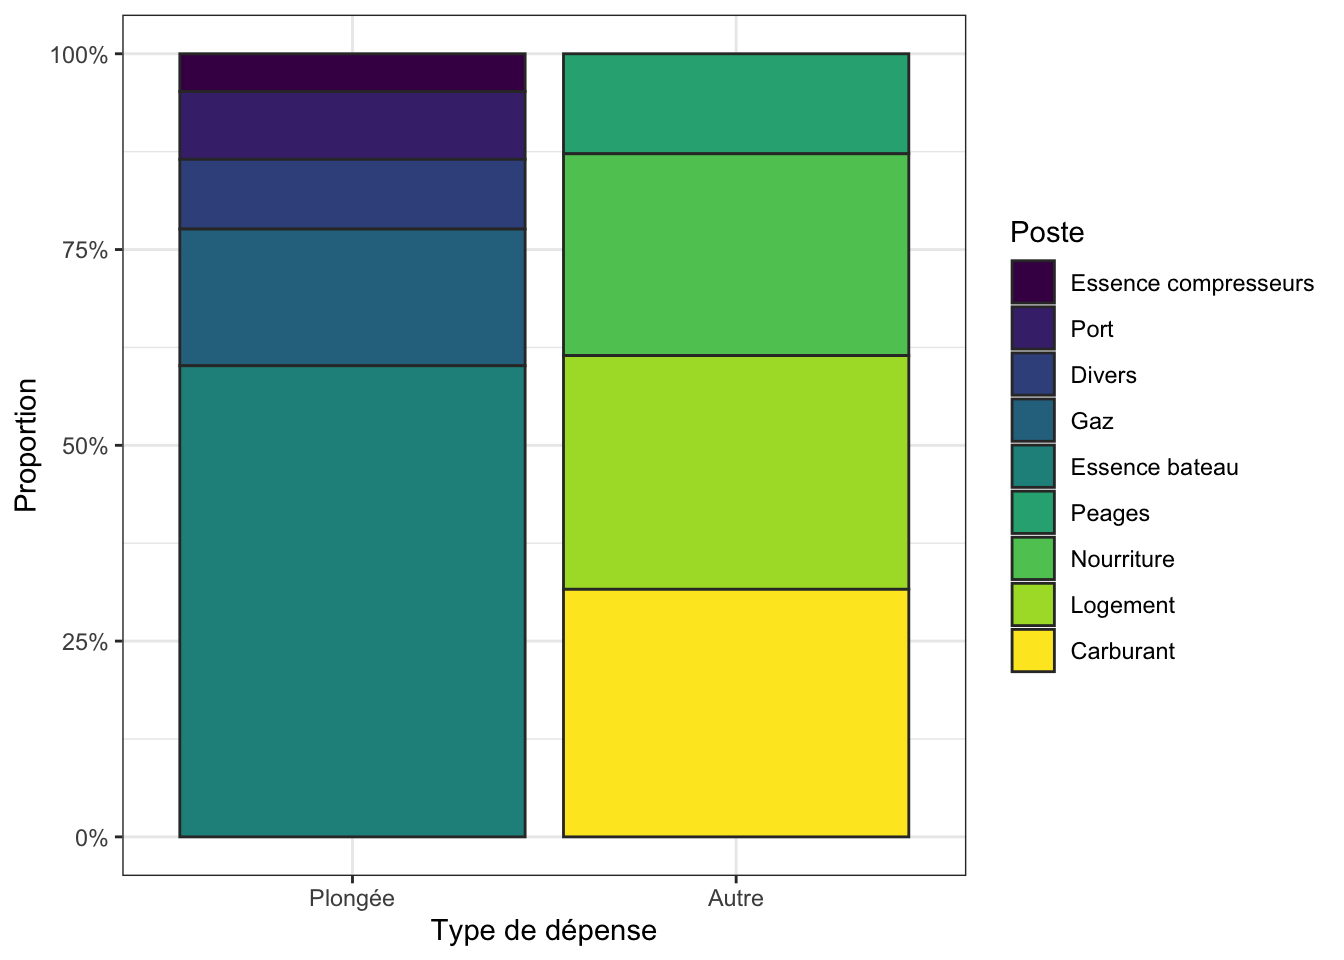
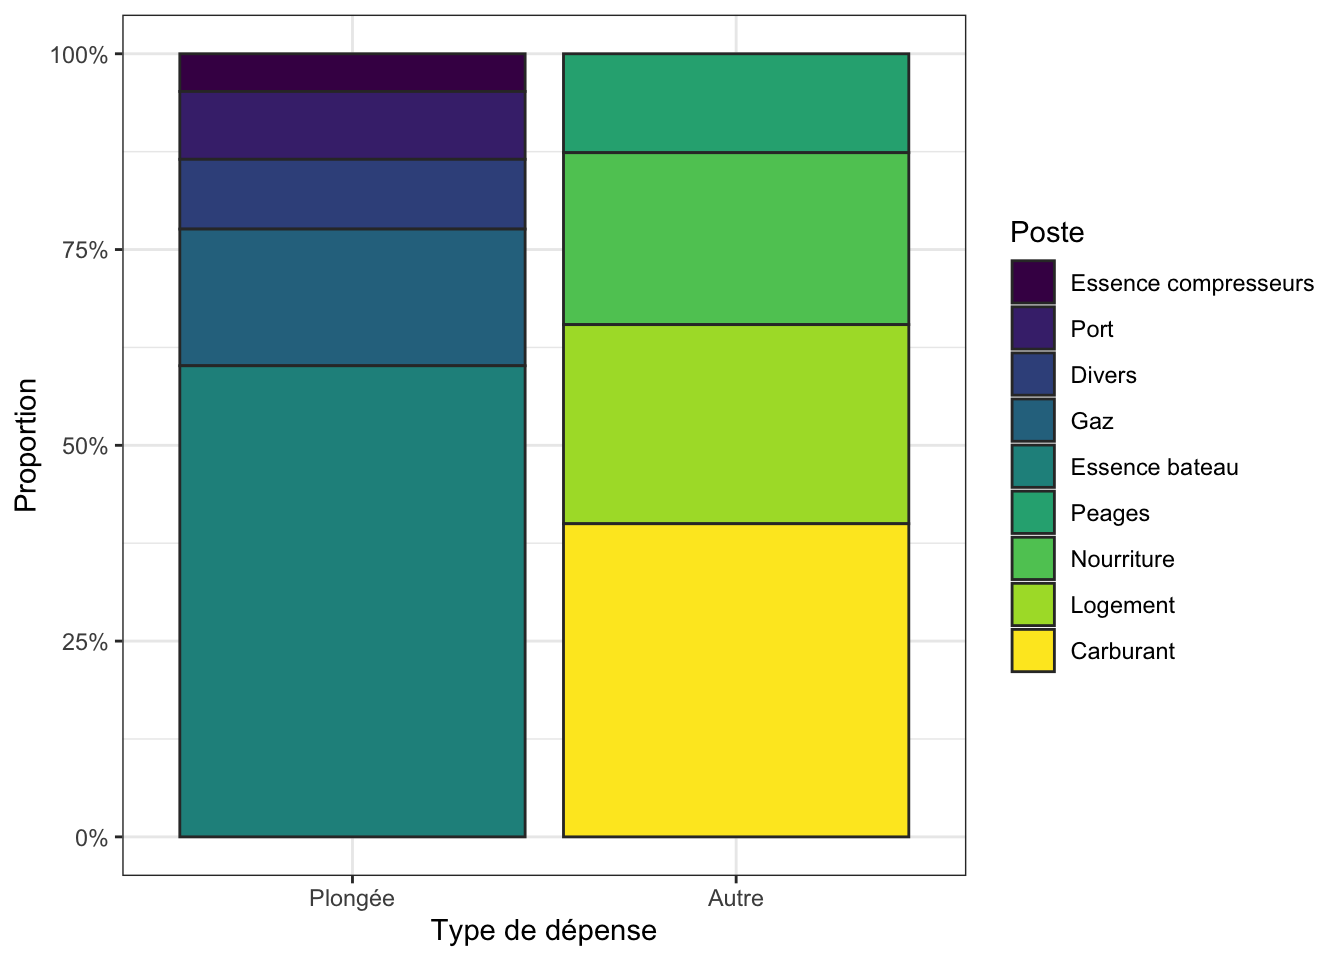
Final update to Cavalaire 2024

Changed region(s): [[0.4062, 0.5312, 0.6875, 0.625], [0.4062, 0.3125, 0.6875, 0.375]]

diff --git a/docs/Cavalaire2024.html b/docs/Cavalaire2024.html
@@ -286,7 +286,7 @@ ul.task-list li input[type="checkbox"] {
     <div>
     <div class="quarto-title-meta-heading">Dernière Mise à jour</div>
     <div class="quarto-title-meta-contents">
-      <p class="date">mardi 23 avril 2024</p>
+      <p class="date">vendredi 26 avril 2024</p>
     </div>
   </div>
   
@@ -721,11 +721,11 @@ Table&nbsp;4: Dépenses hors plongées engagées par les participants à la sort
 <td style="text-align: right;">Carole</td>
 <td style="text-align: right;">0€</td>
 <td style="text-align: right;">49.50€</td>
-<td style="text-align: right;">141.38€</td>
+<td style="text-align: right;">256.58€</td>
 <td style="text-align: right;">0.00€</td>
 <td style="text-align: right;">0€</td>
 <td style="text-align: right;">0€</td>
-<td style="text-align: right;">190.88€</td>
+<td style="text-align: right;">306.08€</td>
 </tr>
 <tr class="even">
 <td style="text-align: right;">Jérôme</td>
@@ -761,11 +761,11 @@ Table&nbsp;4: Dépenses hors plongées engagées par les participants à la sort
 <td style="text-align: right;">Thomas</td>
 <td style="text-align: right;">0€</td>
 <td style="text-align: right;">0.00€</td>
-<td style="text-align: right;">0.00€</td>
-<td style="text-align: right;">67.30€</td>
+<td style="text-align: right;">387.98€</td>
+<td style="text-align: right;">134.90€</td>
 <td style="text-align: right;">0€</td>
 <td style="text-align: right;">0€</td>
-<td style="text-align: right;">67.30€</td>
+<td style="text-align: right;">522.88€</td>
 </tr>
 <tr class="even">
 <td style="text-align: right;">Anthony</td>
@@ -791,11 +791,11 @@ Table&nbsp;4: Dépenses hors plongées engagées par les participants à la sort
 <td style="text-align: right; font-weight: bold;">Total</td>
 <td style="text-align: right; font-weight: bold;">980€</td>
 <td style="text-align: right; font-weight: bold;">846.17€</td>
-<td style="text-align: right; font-weight: bold;">1,038.02€</td>
-<td style="text-align: right; font-weight: bold;">419.30€</td>
+<td style="text-align: right; font-weight: bold;">1,541.20€</td>
+<td style="text-align: right; font-weight: bold;">486.90€</td>
 <td style="text-align: right; font-weight: bold;">0€</td>
 <td style="text-align: right; font-weight: bold;">0€</td>
-<td style="text-align: right; font-weight: bold;">3,283.49€</td>
+<td style="text-align: right; font-weight: bold;">3,854.27€</td>
 </tr>
 </tbody>
 </table>
@@ -890,8 +890,8 @@ Table&nbsp;6: Coûts unitaires par personne
 <tr class="odd">
 <td style="text-align: right;">12.89€</td>
 <td style="text-align: right;">3.71€</td>
-<td style="text-align: right;">86.50€</td>
-<td style="text-align: right;">34.94€</td>
+<td style="text-align: right;">128.43€</td>
+<td style="text-align: right;">40.57€</td>
 </tr>
 </tbody>
 </table>
@@ -970,39 +970,39 @@ Table&nbsp;7: Bilan des coûts par plongeur et par poste
 </tr>
 <tr class="even">
 <td style="text-align: right;">Carburant</td>
-<td style="text-align: right;">86.50€</td>
-<td style="text-align: right;">86.50€</td>
-<td style="text-align: right;">86.50€</td>
-<td style="text-align: right;">173.00€</td>
-<td style="text-align: right;">86.50€</td>
-<td style="text-align: right;">173.00€</td>
-<td style="text-align: right;">86.50€</td>
-<td style="text-align: right;">86.50€</td>
-<td style="text-align: right;">173.00€</td>
+<td style="text-align: right;">128.43€</td>
+<td style="text-align: right;">128.43€</td>
+<td style="text-align: right;">128.43€</td>
+<td style="text-align: right;">256.87€</td>
+<td style="text-align: right;">128.43€</td>
+<td style="text-align: right;">256.87€</td>
+<td style="text-align: right;">128.43€</td>
+<td style="text-align: right;">128.43€</td>
+<td style="text-align: right;">256.87€</td>
 </tr>
 <tr class="odd">
 <td style="text-align: right; border-bottom: 1px solid;">Peage</td>
-<td style="text-align: right; border-bottom: 1px solid;">34.94€</td>
-<td style="text-align: right; border-bottom: 1px solid;">34.94€</td>
-<td style="text-align: right; border-bottom: 1px solid;">34.94€</td>
-<td style="text-align: right; border-bottom: 1px solid;">69.88€</td>
-<td style="text-align: right; border-bottom: 1px solid;">34.94€</td>
-<td style="text-align: right; border-bottom: 1px solid;">69.88€</td>
-<td style="text-align: right; border-bottom: 1px solid;">34.94€</td>
-<td style="text-align: right; border-bottom: 1px solid;">34.94€</td>
-<td style="text-align: right; border-bottom: 1px solid;">69.88€</td>
+<td style="text-align: right; border-bottom: 1px solid;">40.57€</td>
+<td style="text-align: right; border-bottom: 1px solid;">40.57€</td>
+<td style="text-align: right; border-bottom: 1px solid;">40.57€</td>
+<td style="text-align: right; border-bottom: 1px solid;">81.15€</td>
+<td style="text-align: right; border-bottom: 1px solid;">40.57€</td>
+<td style="text-align: right; border-bottom: 1px solid;">81.15€</td>
+<td style="text-align: right; border-bottom: 1px solid;">40.57€</td>
+<td style="text-align: right; border-bottom: 1px solid;">40.57€</td>
+<td style="text-align: right; border-bottom: 1px solid;">81.15€</td>
 </tr>
 <tr class="even">
 <td style="text-align: right; font-weight: bold;">Total</td>
-<td style="text-align: right; font-weight: bold;">325.49€</td>
-<td style="text-align: right; font-weight: bold;">439.34€</td>
-<td style="text-align: right; font-weight: bold;">409.40€</td>
-<td style="text-align: right; font-weight: bold;">728.99€</td>
-<td style="text-align: right; font-weight: bold;">424.37€</td>
-<td style="text-align: right; font-weight: bold;">714.02€</td>
-<td style="text-align: right; font-weight: bold;">439.34€</td>
-<td style="text-align: right; font-weight: bold;">468.61€</td>
-<td style="text-align: right; font-weight: bold;">435.12€</td>
+<td style="text-align: right; font-weight: bold;">373.06€</td>
+<td style="text-align: right; font-weight: bold;">486.91€</td>
+<td style="text-align: right; font-weight: bold;">456.97€</td>
+<td style="text-align: right; font-weight: bold;">824.12€</td>
+<td style="text-align: right; font-weight: bold;">471.94€</td>
+<td style="text-align: right; font-weight: bold;">809.15€</td>
+<td style="text-align: right; font-weight: bold;">486.91€</td>
+<td style="text-align: right; font-weight: bold;">516.18€</td>
+<td style="text-align: right; font-weight: bold;">530.25€</td>
 </tr>
 </tbody>
 </table>
@@ -1030,47 +1030,47 @@ Table&nbsp;7: Bilan des coûts par plongeur et par poste
 <tr class="odd">
 <td style="text-align: right;">Anthony</td>
 <td style="text-align: right;">rembourse à l'AP</td>
-<td style="text-align: right;">343.61€</td>
+<td style="text-align: right;">391.18€</td>
 </tr>
 <tr class="even">
 <td style="text-align: right;">Baptiste</td>
 <td style="text-align: right;">rembourse à l'AP</td>
-<td style="text-align: right;">52.49€</td>
+<td style="text-align: right;">100.06€</td>
 </tr>
 <tr class="odd">
 <td style="text-align: right;">Carole</td>
 <td style="text-align: right;">rembourse à l'AP</td>
-<td style="text-align: right;">78.52€</td>
+<td style="text-align: right;">10.89€</td>
 </tr>
 <tr class="even">
 <td style="text-align: right;">Pierre</td>
 <td style="text-align: right;">rembourse à l'AP</td>
-<td style="text-align: right;">11.89€</td>
+<td style="text-align: right;">107.02€</td>
+</tr>
+<tr class="odd">
+<td style="text-align: right;">Valérianne</td>
+<td style="text-align: right;">rembourse à l'AP</td>
+<td style="text-align: right;">530.25€</td>
+</tr>
+<tr class="even">
+<td style="text-align: right;">Benoît</td>
+<td style="text-align: right;">se fait rembourser par l'AP</td>
+<td style="text-align: right;">108.63€</td>
+</tr>
+<tr class="odd">
+<td style="text-align: right;">Jérôme</td>
+<td style="text-align: right;">se fait rembourser par l'AP</td>
+<td style="text-align: right;">326.65€</td>
+</tr>
+<tr class="even">
+<td style="text-align: right;">Nathalie</td>
+<td style="text-align: right;">se fait rembourser par l'AP</td>
+<td style="text-align: right;">308.49€</td>
 </tr>
 <tr class="odd">
 <td style="text-align: right;">Thomas</td>
-<td style="text-align: right;">rembourse à l'AP</td>
-<td style="text-align: right;">311.46€</td>
-</tr>
-<tr class="even">
-<td style="text-align: right;">Valérianne</td>
-<td style="text-align: right;">rembourse à l'AP</td>
-<td style="text-align: right;">435.12€</td>
-</tr>
-<tr class="odd">
-<td style="text-align: right;">Benoît</td>
 <td style="text-align: right;">se fait rembourser par l'AP</td>
-<td style="text-align: right;">156.20€</td>
-</tr>
-<tr class="even">
-<td style="text-align: right;">Jérôme</td>
-<td style="text-align: right;">se fait rembourser par l'AP</td>
-<td style="text-align: right;">421.78€</td>
-</tr>
-<tr class="odd">
-<td style="text-align: right;">Nathalie</td>
-<td style="text-align: right;">se fait rembourser par l'AP</td>
-<td style="text-align: right;">356.06€</td>
+<td style="text-align: right;">96.55€</td>
 </tr>
 </tbody>
 </table>
@@ -1083,8 +1083,10 @@ Table&nbsp;7: Bilan des coûts par plongeur et par poste
 <section id="bénéfices-essence-et-heures" class="level2">
 <h2 class="anchored" data-anchor-id="bénéfices-essence-et-heures">Bénéfices, essence et heures</h2>
 <p>La majoration de 3€ de chaque plongée ainsi que les plongées des invités (si la plongée des membres coûte moins de 23€) permettent de faire des (petits) bénéfices. Ils s’élèvent ici à <strong>299.06€</strong>.</p>
+<p>Le moteur a tourné 9.9 heures et 150 litres de sans plomb ont été mis dans le réservoir. D’après la console, 131.9 litres ont été consommés soit une consommation moyenne de 13.32 litres à l’heure. Il devrait donc rester environ 18.1 litres dans le réservoir.</p>
 <p>Pour finir, nous avons parcouru 62.6 milles nautiques. Ça veut dire que nous consommons en moyenne 2.11 litres par mille, soit 1.14 litres au kilomètre, soit la bagatelle de 114 litres au 100 kilomètres. La plongée est un sport écologique !</p>
-<!-- Le moteur a tourné 9.9 heures et 150 litres de sans plomb ont été mis dans le réservoir. D'après la console, 131.9 litres ont été consommés soit une consommation moyenne de 13.32 litres à l'heure. Il devrait donc rester environ 18.1 litres dans le réservoir. Thomas en a sorti environ 70 litres, soit -51.9 litres de moins que prévu. Cela représente une erreur d'estimation de consommation de -34.6%. Les boudins n'ont toujours pas été nettoyés : le savon spécial est dans la console et le balais brosse dans le Ducato : avis aux amateurs ! -->
+<p>Les boudins n’ont toujours pas été nettoyés : le savon spécial est dans la console et le balais brosse dans le Ducato : avis aux amateurs !</p>
+<!-- Thomas en a sorti environ 70 litres, soit -51.9 litres de moins que prévu. Cela représente une erreur d'estimation de consommation de -34.6%.  -->
 </section>
 <section id="pour-mémoire" class="level2">
 <h2 class="anchored" data-anchor-id="pour-mémoire">Pour mémoire</h2>
